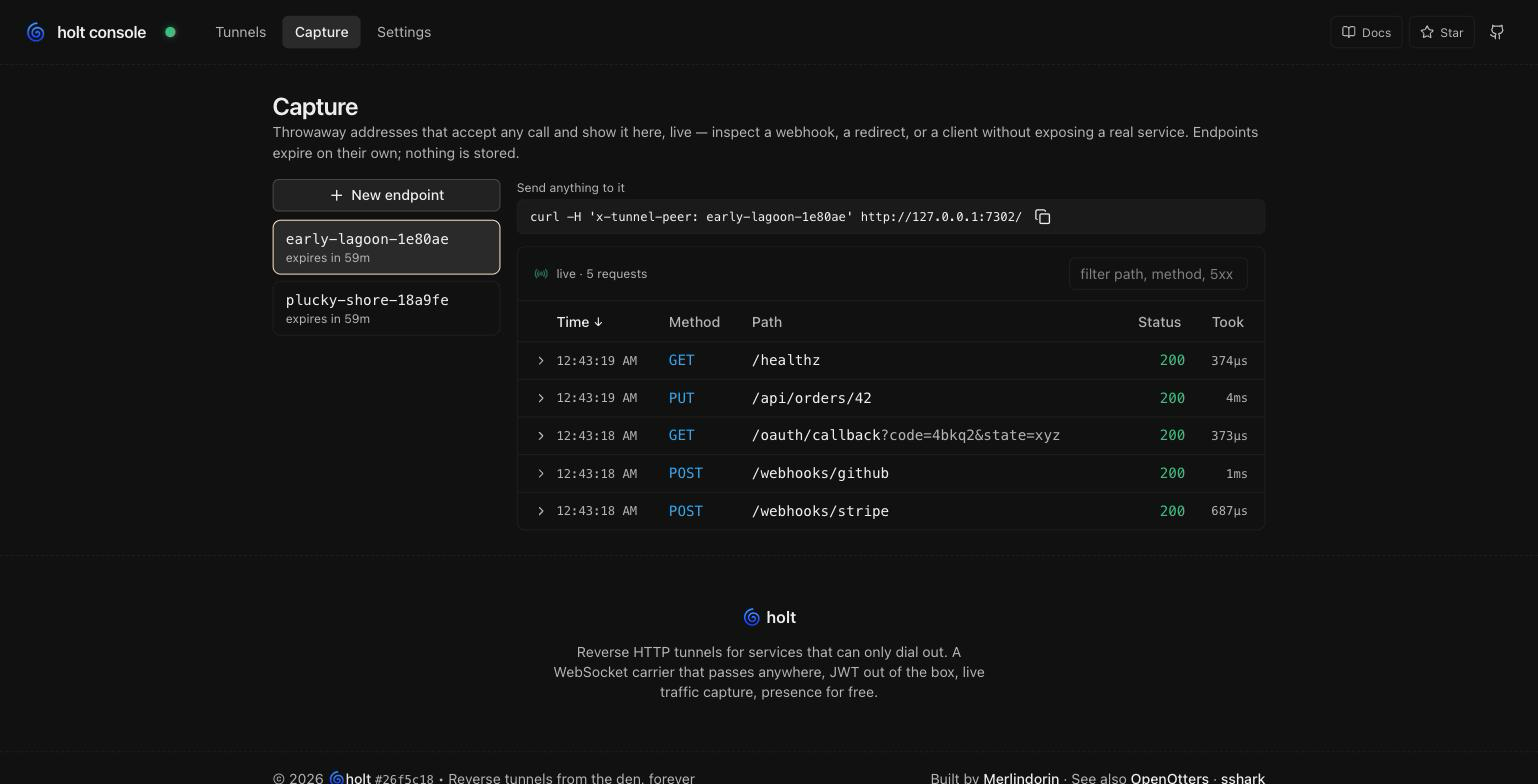
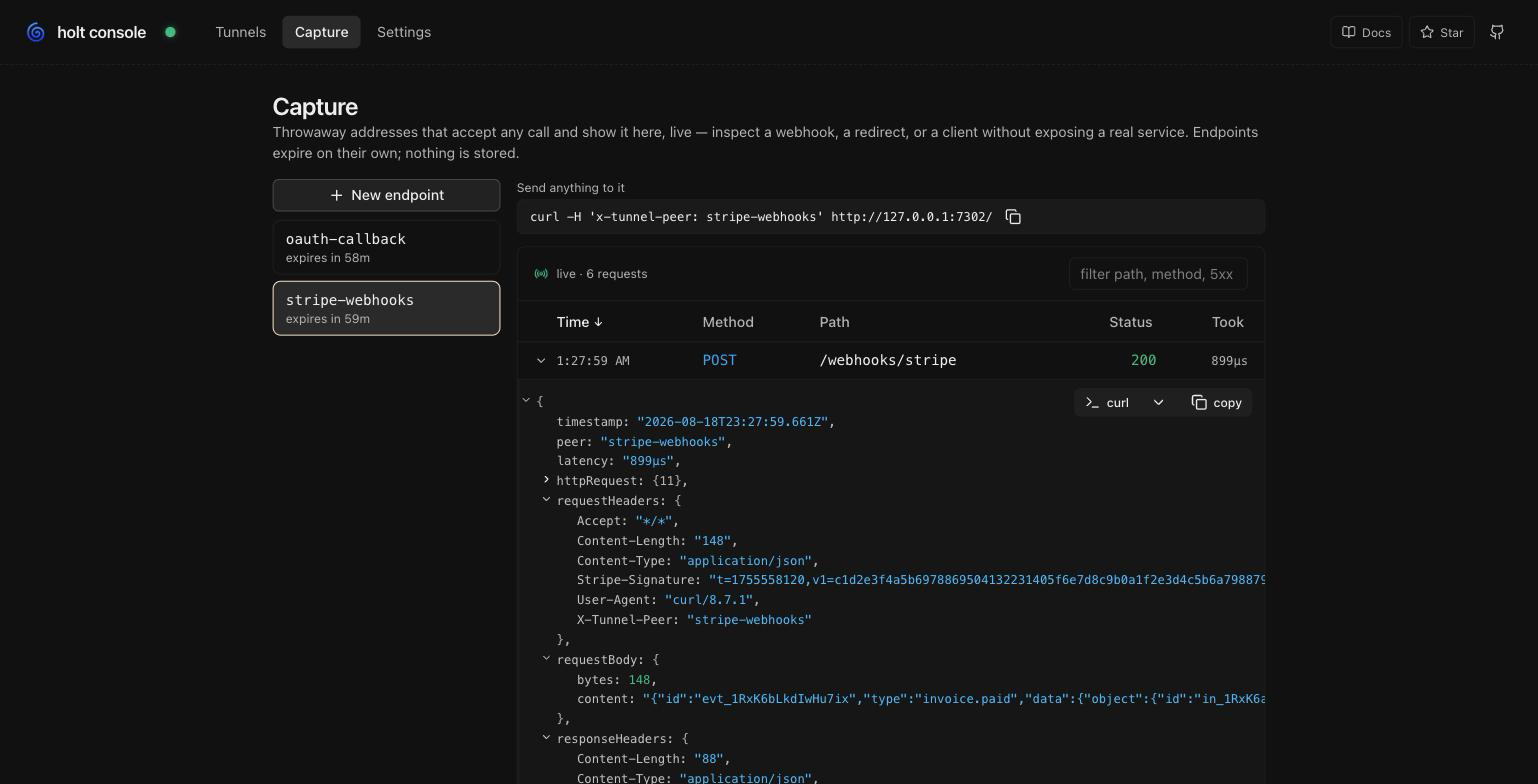
docs: the library leads, the screenshot tells a story
The README says what holt is for: a Go library first — NewClient and
NewServer open it, the CLI reads as its packaging. Capture gets its
place in the console section, and the long paragraphs shrink to what
a reader needs. The screenshot now shows the point: a Stripe webhook
landing on a capture endpoint, its signature and payload open in the
inspector.

diff --git a/README.md b/README.md
@@ -13,168 +13,100 @@
 
 A *holt* is an otter's den: a burrow in the riverbank, reachable only
 through the underwater tunnel its owner dug. Same idea here. A **peer**
-that cannot accept inbound connections (behind NAT, in a locked down
-container, on a field device) dials out to a **hub**, then serves an
-ordinary `http.Handler` back through the connection it opened. The hub
-gets an `http.RoundTripper` per peer, and a presence signal for free.
+that cannot accept inbound connections (NAT, locked-down container,
+field device) dials out to a **hub**, then serves an ordinary
+`http.Handler` back through the connection it opened. The hub gets an
+`http.RoundTripper` per peer, and presence for free. No listener, no
+inbound port, nothing published on the peer.
 
-No listener, no inbound port, no published container port on the peer.
+holt is a **Go library first**; the `holt` CLI is one opinionated
+packaging of it.
 
-Useful when something needs a public address and cannot have one:
+> ⚠ Alpha, extracted from [openotters](https://github.com/openotters/openotters),
+> where it is the daemon-to-agent channel. The wire protocol may still change.
 
-- show a local website to a client or a colleague, without deploying it
-- debug webhooks (Stripe, GitHub, Slack) that need a real URL to call
-- test an OAuth callback that must be reachable from outside
-- reach a machine at home or on a customer network: a NAS, a router, a
-  Raspberry Pi
-- give an agent or a device an address, without opening a port on its
-  side
+## The library
 
-> ⚠ Alpha, extracted from [openotters](https://github.com/openotters/openotters)
-> where it is the sole daemon-to-agent-runtime channel. The wire protocol
-> may still change.
+Two constructors, both at the module root:
 
-<div align="center">
-  <img src="docs/console.png" alt="holt web console" width="760" />
-  <br />
-  <sub>The built-in web console (<code>holt hub --ui</code>). See <a href="docs/console.md">Web console</a>.</sub>
-</div>
-
-## Where holt fits
-
-frp, ngrok and inlets do much more than holt, and at a bigger scale. If
-you need TCP or UDP forwarding, load balancing, teams and quotas, or a
-hosted service with support, look at them first.
-
-holt is for simpler needs. You have an HTTP service that can only dial
-out, you have a domain and a small server (or a Kubernetes cluster), and
-you want to reach that service without giving your traffic to somebody
-else. One binary for the hub, one command on the peer, and everything
-stays yours.
-
-What you get:
-
-- HTTP and gRPC through the tunnel, the peer serving an ordinary handler
-- a hostname per peer, so a browser, a webhook or an OAuth callback can
-  reach it directly
-- a WebSocket transport, so the tunnel passes through Cloudflare,
-  ingresses and access proxies (gRPC does not pass there)
-- a live view of the traffic: logged by the peer, shown in the console,
-  every request one click from a curl that replays it
-- capture endpoints: throwaway addresses that accept any call and show
-  it live — inspect a webhook or an OAuth redirect without exposing a
-  real service
-- a web console, Prometheus metrics and a Grafana dashboard
-- a Helm chart, and a shared PostgreSQL when you run several hubs
-
-## Quickstart (local)
-
-Install it (see [all install methods](docs/install.md)):
-
-```sh
-brew install openotters/tap/holt      # or: go install github.com/openotters/holt/cmd/holt@latest
+```go
+// The peer: attaches to the hub, serves the handler through the
+// tunnel, redials with backoff. Cancel ctx to stop.
+c := holt.NewClient("wss://holt.example.com", myHandler,
+	holt.WithBearerToken(token))
+err := c.Run(ctx)
 ```
 
-Expose a local service through a hub in two commands:
+```go
+// The hub: a tunnel listener peers attach to, an optional proxy to
+// reach them from outside.
+srv := holt.NewServer(
+	holt.WithTunnel(holt.NewTunnel(":7200", holt.WithAuthBearer(peerForToken))),
+	holt.WithProxy(holt.NewProxy(":7202")),
+)
+go srv.Run(ctx)
 
-```sh
-holt hub --ui &                  # run a hub (web console on 127.0.0.1:7201)
-holt expose localhost:3000 --peer web   # enrolls itself, then serves the tunnel
+// Anywhere in the hub process, a peer is an ordinary HTTP backend:
+client := &http.Client{Transport: srv.Registry().RoundTripper(peerID)}
 ```
 
-Then reach the peer *through* the hub:
+Bring your own auth, middleware, listeners and storage — everything
+the CLI adds (JWT identity, SQLite/PostgreSQL state, the console) is
+built on this surface. See [Library](docs/library.md) and
+[How it works](docs/architecture.md).
+
+## The CLI
+
+One binary for hub, peer, and operations
+([all install methods](docs/install.md)):
 
 ```sh
+brew install openotters/tap/holt   # or: go install github.com/openotters/holt/cmd/holt@latest
+
+holt hub --ui &                         # hub + web console (127.0.0.1:7201)
+holt expose localhost:3000 --peer web   # enrolls itself, serves the tunnel
 curl -H 'x-tunnel-peer: web' http://127.0.0.1:7202/
 ```
 
-`holt expose` logs every request as it answers it, so you see what
-your service is doing without opening a log file:
-
-```
-9:27AM INFO expose: GET    /            200  27ms
-9:27AM INFO expose: GET    /missing     404  12ms
-```
-
-The hub keeps its own output quiet and shows the same traffic in the
-console (`holt hub --ui`), live, with the peer that answered.
-
-Drop `--peer` and it enrolls under a generated name (`cosy-eddy-aec23e`); from another
-machine, point it at the hub with `--admin-url` or a `--profile`. For
-a long-lived peer, mint the token once with `holt enroll web` and pass
-it with `--token`.
-
-The token bundles the peer's JWT and the hub's tunnel URL. Peers
-authenticate with the JWT and attach over a **WebSocket**, so the
-tunnel passes through anything that can proxy plain HTTP: CDN public
-hostnames (Cloudflare included), access proxies, ordinary ingresses.
-The URL's scheme picks the transport: a `wss://` URL is encrypted by a
-TLS edge in front of the hub (an ingress, LoadBalancer, or Cloudflare),
-while `ws://` dials plaintext for local use (`https://`/`http://` are
-accepted as aliases). The hub itself never manages a certificate.
-
-Behind a TLS edge, advertise the public URL so peers dial it over TLS:
-
-```sh
-holt hub --advertise-addr wss://holt.example.com &   # hub is plaintext; your edge terminates TLS
-holt enroll web                                      # token now carries the wss URL
-```
-
-See [Security](docs/security.md) for exposing a hub safely.
-
-## Examples
-
-Give a peer its own hostname, for a webhook, an OAuth callback, or just
-a browser. Point a wildcard record at the proxy first (keep the peers at
-the first level of the domain, a wildcard certificate covers only one
-level):
+Peers authenticate with a JWT and attach over a **WebSocket**, so the
+tunnel passes through Cloudflare, ingresses and access proxies. TLS is
+your edge's job: advertise its `wss://` URL. With a domain, each peer
+gets its own hostname — for a browser, a webhook, an OAuth callback:
 
 ```sh
 holt hub --advertise-addr wss://holt.example.com \
   --proxy-routing both --proxy-domain example.com
-
 holt expose localhost:3000 --peer checkout
 # https://checkout.example.com/ now reaches the service
 ```
 
-Expose an appliance that serves HTTPS with a self signed certificate (a
-router, a NAS, an IPMI card):
+Operate with `holt ls`, `holt kill web`, `holt block web`. On
+Kubernetes, `helm install holt oci://ghcr.io/openotters/charts/holt`;
+several hubs share one PostgreSQL for presence, denylist and signing
+identity ([Kubernetes](docs/kubernetes.md)).
 
-```sh
-holt expose https://192.168.1.1 --insecure --peer router
-```
+## The console
 
-Open a quick tunnel without choosing a name:
+<div align="center">
+  <img src="docs/console.png" alt="holt web console" width="760" />
+</div>
 
-```sh
-holt expose localhost:8080
-# it enrolls itself, as something like cosy-eddy-aec23e
-```
+`holt hub --ui` serves a web console: live tunnels, per-peer traffic
+with payloads (any request is one click from a curl that replays it),
+and **capture endpoints** — throwaway addresses that accept any call
+and show it live. Point a webhook or an OAuth redirect at one and
+inspect what arrives without exposing a real service. See
+[Web console](docs/console.md).
 
-From another machine, say where the hub is (or put it in a
-[profile](docs/cli.md#remote-hubs-and-profiles)):
+Prometheus metrics and a Grafana dashboard come with it
+([Observability](docs/observability.md)).
 
-```sh
-holt expose localhost:3000 --admin-url https://holt.example.com
-```
+## Where holt fits
 
-Then operate the hub:
-
-```sh
-holt ls           # who is attached
-holt kill web     # close a tunnel, the peer may come back
-holt block web    # ban the peer id until you unblock it
-```
-
-On Kubernetes, the chart runs the hub, and several hubs can share one
-PostgreSQL for presence, blocklist and signing identity:
-
-```sh
-helm install holt oci://ghcr.io/openotters/charts/holt
-```
-
-See [Kubernetes](docs/kubernetes.md) for the fleet setup, the ingresses
-and the Grafana dashboard.
+frp, ngrok and inlets do more, at a bigger scale: TCP/UDP, load
+balancing, teams, hosted service. holt is HTTP(S) and gRPC through
+one hub on your own infra — for embedding tunnels in a Go program,
+and for the simple case where your traffic should stay yours.
 
 ## Documentation
 

diff --git a/docs/console.md b/docs/console.md
@@ -8,95 +8,63 @@
   <img src="console.png" alt="holt web console" width="640" />
 </p>
 
-`holt hub --ui` serves a small React console on the admin listener
+`holt hub --ui` serves the console on the admin listener
 (`http://127.0.0.1:7201/`). A status light sits next to the console's
-name — green while the hub answers, pulsing red when it does not —
-and opens the hub's identity card on hover: endpoint, version, route
-header, token TTL, and the tunnel/proxy URLs, each one click to copy.
+name — green while the hub answers, pulsing red when it does not — and
+opens the hub's identity card on hover: endpoint, version, route
+header, token TTL, and the tunnel/proxy URLs, one click to copy.
 
-The console is three pages.
+Three pages.
 
 ## Tunnels
 
-The operating view:
+- The live tunnel list, updated over a server stream, with per-peer
+  **Kill**, **Block**, and **Call** (the `curl` that reaches the peer
+  through the proxy).
+- Per-peer **Traffic**: the requests the hub carried, live. Filter by
+  path, method, or status class (`5` matches every 5xx), sort any
+  column, click a row for the full entry — headers, a bounded slice of
+  each body, sizes, timing. Take it away as JSON, or as a command that
+  replays it: curl, plain URL, PowerShell, fetch, wget.
 
-- the live tunnel list, updated over a server stream (no polling), with
-  per-peer **Kill**, **Block**, and a **Call** button that shows the
-  `curl` command to reach that peer through the proxy.
-- a per-peer **Traffic** button: the requests the hub carried to that
-  peer, live, as a table. Filter it (a path fragment, a method, `5`
-  for every 5xx), sort any column, and click a row to open the request
-  as a structured entry: a foldable JSON tree carrying the host,
-  query, protocol, client, user agent, both sizes and the duration
-  (tunnel hop included). Two buttons take it away: **copy** puts the
-  entry on the clipboard as JSON, and **curl** puts a command that
-  replays the request through the hub (addressed the way this hub
-  routes), with a menu next to it for the other forms — plain URL,
-  PowerShell, fetch, wget.
-  It is per peer on purpose — a fleet's traffic in one list is
-  unreadable — and the hub does the filtering, so watching one peer
-  never ships you the others'.
-
-  The entry carries the headers and a bounded slice of each body
-  (`--traffic-body-size`, 4 KiB by default). Credential-carrying
-  header values are always `<redacted>`, a body past the limit is
-  marked truncated, and one that is not text is named rather than
-  shown. `--no-traffic-payloads` keeps the view to metadata only.
-
-  Nothing is stored: the hub keeps the last `--traffic-buffer`
-  requests in memory (100 by default, `0` keeps none) so the table is
-  not blank when it opens, forgets them on restart, and closing the
-  panel loses the rest. This is the hub's live view; `holt hub` itself
-  logs no requests.
-- an **Add peer** dialog that mints a join token (shown in full, one
-  click to copy).
-- a **Recent activity** feed of attaches and detaches, with the reason
-  the hub sent (superseded, connection-lost, an operator kill).
-- the **Blocked peers** list, with per-peer unblock.
+  Credential-carrying headers are always `<redacted>`; bodies are
+  bounded by `--traffic-body-size` (4 KiB default) and
+  `--no-traffic-payloads` keeps the view to metadata. Nothing is
+  stored: the hub keeps the last `--traffic-buffer` requests in memory
+  (100 default) and forgets them on restart.
+- **Add peer** mints a join token; **Recent activity** shows attaches
+  and detaches with reasons; **Blocked peers** lists the bans.
 
 ## Capture
 
-The request inspector: capture endpoints on the left, the selected
-one's live traffic on the right — the same live table as the Tunnels
-page's Traffic view, side by side with the list instead of behind a
-modal.
+Capture endpoints on the left, the selected one's live traffic on the
+right — the same table as the Tunnels traffic view.
 
-A capture endpoint is a throwaway peer that accepts any call and
-answers a small JSON receipt. It runs inside the hub process but
-attaches through the tunnel listener like any peer — named like one
-too, `sunny-brook-92ae63` — so the proxy routes to it, the roster
-lists it, and every request it receives lands in the traffic view,
-payloads included. Give its address to a webhook sender, an OAuth
-redirect, or a teammate's curl, and inspect what arrives without
-exposing a real service.
-
-Endpoints expire on their own (an hour by default) and can be deleted
-early; nothing about them survives the hub process.
+A capture endpoint is a throwaway peer run by the hub itself: it
+attaches through the tunnel listener like any peer, accepts any call,
+and answers a small JSON receipt. Give its address to a webhook
+sender, an OAuth redirect, or a curl, and inspect what arrives —
+payloads included — without exposing a real service. Endpoints expire
+on their own (an hour by default) and can be deleted early.
 
 ## Settings
 
-What you touch once:
-
-- a **This hub** card reading the wiring back: routing mode, proxy
-  port, external URL, tunnel URL, metrics — the values commands and
-  tokens are built from.
-- an **Install holt** card: a tile per method (Homebrew, Go/binary,
-  Docker, Kubernetes) that opens the command in a modal.
-- a **Danger zone** to rotate the hub's signing secret. It regenerates
-  the JWT secret, which invalidates every issued token and closes
-  existing tunnels, so peers must re-enroll (the same effect as
-  `holt rotate-secret`).
+- **This hub**: routing mode, proxy port, external URL, tunnel URL,
+  metrics — the values commands and tokens are built from.
+- **Install holt**: the command per method (Homebrew, Go/binary,
+  Docker, Kubernetes).
+- **Danger zone**: rotate the signing secret — invalidates every
+  issued token and closes existing tunnels, same as
+  `holt rotate-secret`.
 
 ---
 
 The console is built from `cmd/holt/ui/` and embedded in the binary
-(`task ui:build`); pass `--ui-path DIR` to serve a local build instead.
-It calls the same Admin service the CLI uses, over Connect-JSON from the
-browser.
+(`task ui:build`); `--ui-path DIR` serves a local build instead. It
+speaks the same Admin service as the CLI, over Connect-JSON.
 
-Set `--external-url https://peers.example.com` when the proxy is
-reachable at a public address; the console's Call command then shows
-that URL too, and it appears in the startup banner.
+Set `--external-url https://peers.example.com` when the proxy has a
+public address; Call commands then show it.
 
 Exposing the console publicly? See [Security](security.md): it has no
 built-in auth and must sit behind an authenticating proxy, with the
